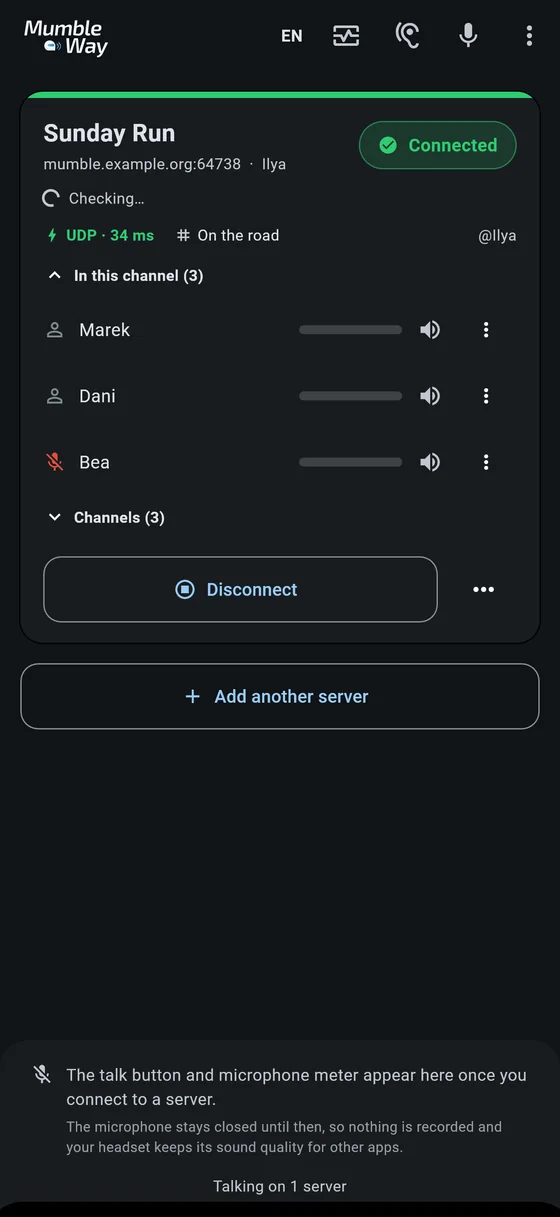
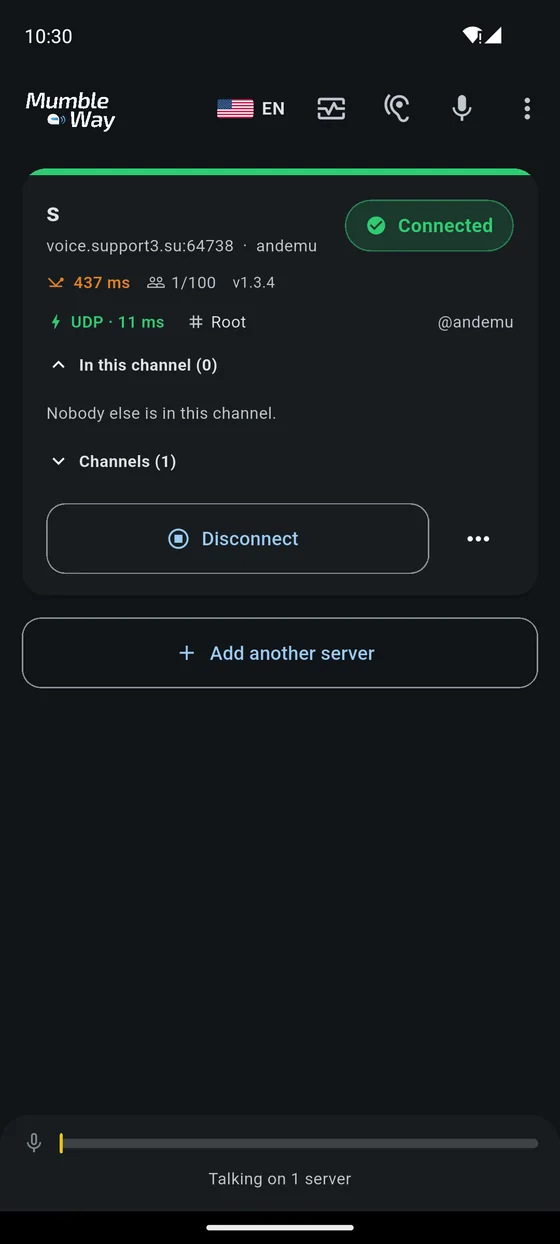
Replace the screenshots with real emulator captures
Driven on a running emulator against a real Mumble server, so the buttons carry
the text they actually carry and the numbers are real: 189 ms to the server,
8 ms UDP round trip, one user in Root.

The analyser is shown twice, in the two states the overview claims matter. Real
speech from the ride corpus was played into the emulator's microphone to get
the first: the legend flips from "Not sending" to "Sending", the transmitted
trace fills in, and voice/gate/to-the-server go from red to green. That pair is
the page's own claim — "the sent trace going flat while the other two do not" —
and it could not be produced by the widget-test harness, which has no engine
and therefore no spectrum and no audio.

Also new: the expanded recording card, the listen-back sheet mid-playback with
the playhead at 0:24 of 0:34, and the noise-cancellation section.

The old settings screenshot's alt text described microphone mode and gain,
which is not what the top of that screen shows.

diff --git a/docs/index.md b/docs/index.md
@@ -80,18 +80,27 @@ construction.
 
 <div class="shots">
   <figure>
-    <img src="{{ '/assets/img/shots/diagnostics-phone.webp' | relative_url }}"
-         alt="The diagnostics panel: a spectrum analyser with three traces, a
-              row of per-stage lights, and the recording switch."
-         width="560" height="1217" loading="lazy" decoding="async">
-    <figcaption>The analyser, the chain lights, and the recorder.</figcaption>
+    <img src="{{ '/assets/img/shots/analyser-speaking-phone.webp' | relative_url }}"
+         alt="The diagnostics panel while speech is being detected: three traces,
+              the transmitted one filled in, and the voice, gate and to-the-server
+              lights all green."
+         width="560" height="1244" loading="lazy" decoding="async">
+    <figcaption>Speech detected, and going out.</figcaption>
+  </figure>
+  <figure>
+    <img src="{{ '/assets/img/shots/analyser-silent-phone.webp' | relative_url }}"
+         alt="The same panel with no speech: the transmitted trace is flat, the
+              legend reads Not sending, and the voice, gate and to-the-server
+              lights are red."
+         width="560" height="1244" loading="lazy" decoding="async">
+    <figcaption>No speech: the sent trace goes flat while the others do not.</figcaption>
   </figure>
   <figure>
     <img src="{{ '/assets/img/shots/home-phone.webp' | relative_url }}"
-         alt="The main screen: a saved server with its latency and user count,
-              a connect button, and the microphone meter."
-         width="560" height="1217" loading="lazy" decoding="async">
-    <figcaption>Your servers, their latency, and the meter.</figcaption>
+         alt="The main screen connected to a server, showing latency, the UDP
+              round trip, the channel and the microphone meter."
+         width="560" height="1244" loading="lazy" decoding="async">
+    <figcaption>Connected: latency, channel, and the meter.</figcaption>
   </figure>
 </div>
 

diff --git a/docs/ru/sending-a-recording.md b/docs/ru/sending-a-recording.md
@@ -37,6 +37,27 @@ description: Как зафиксировать то, что пошло не та
 ставить касанием. Это запись вашего собственного голоса, и вам стоит знать, что
 в ней. А если отправлять звук не хочется вовсе — не отправляйте, см. ниже.
 
+<div class="shots">
+  <figure>
+    <img src="{{ '/assets/img/shots/recording-card-phone.webp' | relative_url }}"
+         alt="Развёрнутая карточка записи: сколько файлов сохранено и сколько
+              они занимают, маленькая красная кнопка удаления у левого края и
+              кнопки прослушивания и отправки у правого."
+         width="560" height="1244" loading="lazy" decoding="async">
+    <figcaption>В развёрнутом виде: что сохранено и что с этим можно
+    сделать.</figcaption>
+  </figure>
+  <figure>
+    <img src="{{ '/assets/img/shots/listen-phone.webp' | relative_url }}"
+         alt="Панель прослушивания во время воспроизведения: по кнопке на
+              каждую запись, осциллограмма с подсвеченной проигранной частью,
+              красный ползунок и время."
+         width="560" height="1244" loading="lazy" decoding="async">
+    <figcaption>Послушать перед отправкой: ползунок можно тащить или ставить
+    касанием.</figcaption>
+  </figure>
+</div>
+
 ## Отправьте
 
 Кнопка отправки выдаёт один или несколько файлов `.zip`, каждый меньше 18 МБ,

diff --git a/docs/sending-a-recording.md b/docs/sending-a-recording.md
@@ -35,6 +35,25 @@ recording card opens a waveform with a playhead you can drag or tap to scrub.
 It is a recording of your own voice and you should know what is in it. If you
 would rather not send the audio at all, you do not have to — see below.
 
+<div class="shots">
+  <figure>
+    <img src="{{ '/assets/img/shots/recording-card-phone.webp' | relative_url }}"
+         alt="The recording card expanded, showing how many files are held and
+              how much space they take, with a small red delete button at the
+              far left and listen and share buttons at the far right."
+         width="560" height="1244" loading="lazy" decoding="async">
+    <figcaption>Expanded: what is held, and the three things you can do with it.</figcaption>
+  </figure>
+  <figure>
+    <img src="{{ '/assets/img/shots/listen-phone.webp' | relative_url }}"
+         alt="The listen-back sheet playing a recording: one chip per recording,
+              a waveform with the played part highlighted, a red playhead part
+              way along, and the elapsed and total time."
+         width="560" height="1244" loading="lazy" decoding="async">
+    <figcaption>Listening back before sending: drag or tap the waveform to scrub.</figcaption>
+  </figure>
+</div>
+
 ## Send it
 
 The share button produces one or more `.zip` files, each under 18 MB so they

diff --git a/docs/settings.md b/docs/settings.md
@@ -12,10 +12,19 @@ when something specific is wrong.
 <div class="shots">
   <figure>
     <img src="{{ '/assets/img/shots/settings-phone.webp' | relative_url }}"
-         alt="The settings screen showing microphone mode, gain and the noise
-              cancellation profiles."
-         width="560" height="1217" loading="lazy" decoding="async">
-    <figcaption>Microphone, levels and the noise profiles.</figcaption>
+         alt="The top of the settings screen: test microphone, echo
+              cancellation, speaker levelling, the incoming audio buffer and
+              room tone."
+         width="560" height="1244" loading="lazy" decoding="async">
+    <figcaption>Devices, levels and the buffer.</figcaption>
+  </figure>
+  <figure>
+    <img src="{{ '/assets/img/shots/settings-noise-phone.webp' | relative_url }}"
+         alt="The noise cancellation section: off, light, standard, helmet and
+              automatic, each with a sentence saying what it is for, and helmet
+              selected."
+         width="560" height="1244" loading="lazy" decoding="async">
+    <figcaption>The noise profiles, with Helmet selected.</figcaption>
   </figure>
 </div>
 
